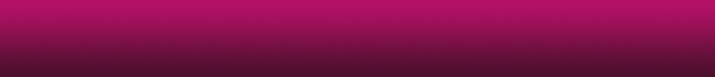
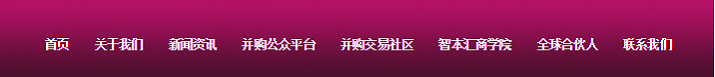
navto pic

Changed region(s): [[0.3385, 0.4675, 0.9538, 0.6753], [0.0615, 0.4675, 0.3077, 0.6753], [0.9846, 0.0, 1.0, 1.0]]

diff --git a/css/css.css b/css/css.css
@@ -31,21 +31,24 @@ a.baise:hover{ color:#F00}
 
 .nav_logo{ width:100%; height:77px;}
 .logo{ width:197px; height:65px; display:inline; margin-left:18px; float:left; background:url(../images/logo.gif) no-repeat;}
-.menus{ width:715px; height:77px; float:right; background:url(../images/menu.png);}/*
+.menus{ width:715px; height:77px; float:right; background:url(../images/menu.png);}
+/*
 .menus{ width:745px; height:77px; float:right;background: #9c5959;
     color: #000000;}
 .menus{ width:745px; height:77px; float:right;background:url(../images/footbg.png) repeat-x;color:#FFF;}*/
 
-/*.menus li{ width:80px; display:inline; float:left; margin-left:5px; padding-top:30px;}*/
-.menus li{ display:inline; float:left; margin-left:5px; padding-top:30px;padding-left:10px;padding-right:10px;}
-/*.menus li a.ap,.menus li a.ap2{ display:block; width:100%; height:47px; text-indent:-9999em;background:#464646; color:#FFF}*/
-.menus li a.ap,.menus li a.ap2{ display:inline; width:55px; height:47px; text-indent:-9999em; color:#FFF;font-weight:bold;font-size:12px;}
+.menus li{ width:80px; display:inline; float:left; margin-left:5px; padding-top:30px;}
+/*.menus li{ display:inline; float:left; margin-left:5px; padding-top:30px;padding-left:10px;padding-right:10px;}*/
+/*.menus li a.ap,.menus li a.ap2{ display:block; width:100%; height:47px; text-indent:-9999em;background:#464646; color:#FFF}
+.menus li a.ap,.menus li a.ap2{ display:inline; width:55px; height:47px; text-indent:-9999em; color:#FFF;font-weight:bold;font-size:12px;}*/
+.menus li a.ap,.menus li a.ap2{ display:block; width:100%; height:47px; text-indent:-9999em;}
 .menus li a.ap3{ width:35px; height:47px; text-indent:-9999em; color:#FFF;font-weight:bold;font-size:12px;}
 .menus li a.ap4{ width:35px; height:47px; text-indent:-9999em; color:#FFF;font-weight:bold;font-size:12px;padding-left:30px;}
-/*.menus li a.ap:hover,.menus li a.ap2{ background:url(../images/menu_.gif) no-repeat center bottom}
+.menus li a.ap:hover,.menus li a.ap2{ background:url(../images/menu_.gif) no-repeat center bottom}
+/*
 .menus li a.ap:hover,.menus li a.ap2{ background:url() no-repeat center bottom}
-.menus li a.ap:hover,.menus li a.ap2{ background:#ebebeb; }*/
-.menus li a.ap:hover,.menus li a.ap2{ background:url() no-repeat center bottom}
+.menus li a.ap:hover,.menus li a.ap2{ background:#ebebeb; }
+.menus li a.ap:hover,.menus li a.ap2{ background:url() no-repeat center bottom}*/
 .menus li.home{ margin-left:20px; width:70px;background:#ebebeb; color:#464646}
 .menus li ul{ width:84px; margin-left:-5px; position:absolute; z-index:99; display:none; padding-top:2px; }
 .menus li ul li{ width:100%; height:21px; line-height:18px; text-align:left; text-indent:12px; background:url(../images/blank.gif); float:left; margin:0; padding:0; }
